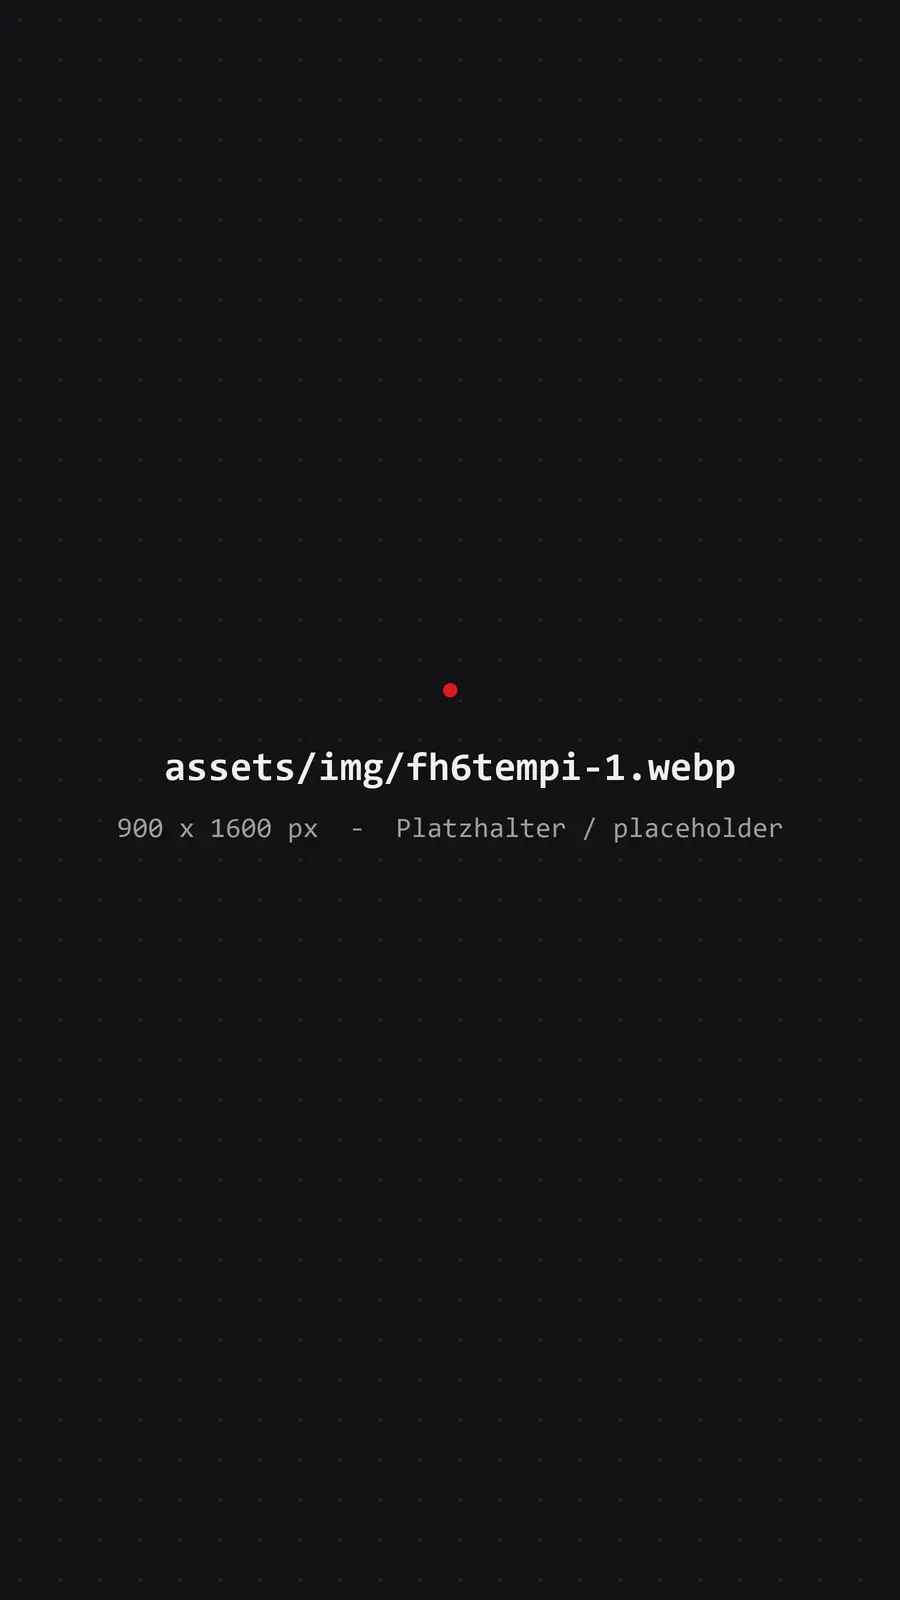
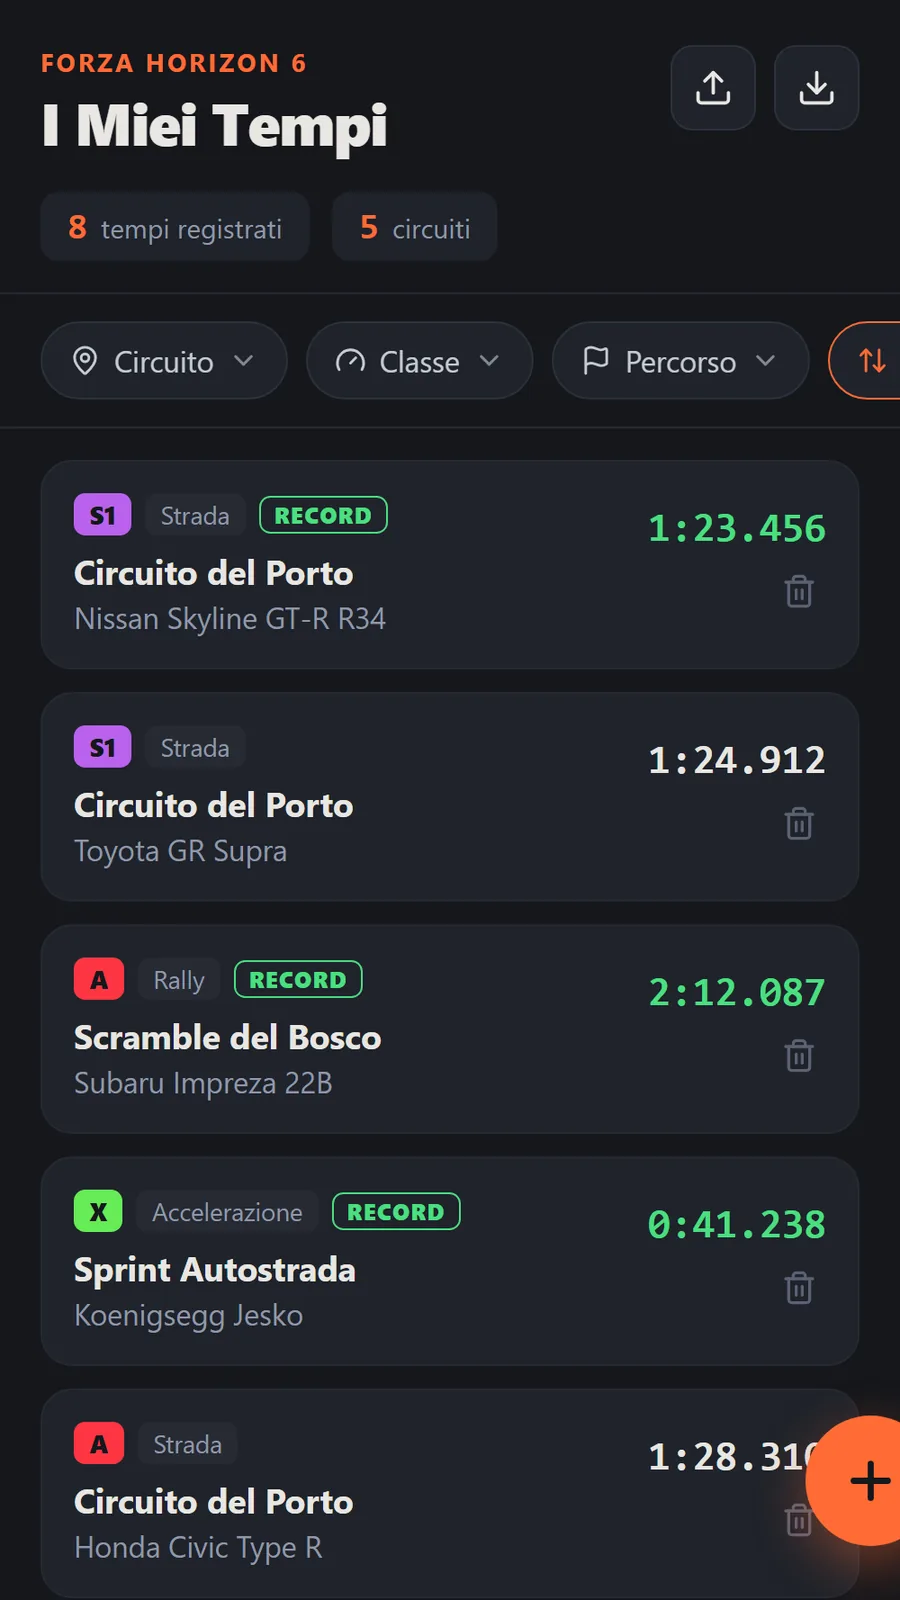
Echte Screenshots und genauere Projekttexte fuer Scriba, Blackouter und FH6 Tempi

diff --git a/index.html b/index.html
@@ -117,10 +117,22 @@
 
         <!-- P/01 Scriba -->
         <article class="project project--lead reveal" aria-labelledby="p-scriba">
-          <figure class="shot shot--tablet">
-            <img src="assets/img/scriba-1.webp" width="1600" height="1000" loading="lazy" decoding="async"
-                 alt="Scriba auf einem Android-Tablet: handschriftliche Notizen mit erkannten Formen und Stift-Werkzeugleiste" data-i18n-alt="altScriba">
-          </figure>
+          <div class="shots">
+            <figure class="shot shot--tablet">
+              <img src="assets/img/scriba-1.webp" width="1600" height="1000" loading="lazy" decoding="async"
+                   alt="Scriba: handschriftliche Physik-Notizen mit Formel, erkannter Ellipse und gefülltem Dreieck, darüber die Werkzeugleiste" data-i18n-alt="altScriba">
+            </figure>
+            <div class="shots-row">
+              <figure class="shot shot--tablet">
+                <img src="assets/img/scriba-2.webp" width="1200" height="750" loading="lazy" decoding="async"
+                     alt="Scriba: importiertes PDF mit handschriftlichen Markierungen und Randnotiz" data-i18n-alt="altScriba2">
+              </figure>
+              <figure class="shot shot--tablet">
+                <img src="assets/img/scriba-3.webp" width="1200" height="750" loading="lazy" decoding="async"
+                     alt="Scriba: mit dem Lasso ausgewähltes Dreieck mit Griffen zum Verschieben, Skalieren und Drehen" data-i18n-alt="altScriba3">
+              </figure>
+            </div>
+          </div>
           <div class="project-body">
             <p class="project-id">P/01 <span data-i18n="p1Kind">Android · Tablet</span></p>
             <h3 id="p-scriba">Scriba</h3>
@@ -134,17 +146,16 @@
               <dt data-i18n="lblSolved">Gelöst</dt>
               <dd>
                 <ul class="solved">
-                  <li data-i18n="p1s1"><strong>Front-Buffer-Rendering</strong> für latenzfreie Stifteingabe, kombiniert mit Motion Prediction.</li>
-                  <li data-i18n="p1s2"><strong>Eigene Formerkennung</strong> für Kreis, Rechteck und Polygon – rein geometrisch.</li>
-                  <li data-i18n="p1s3"><strong>Atomares Speichern</strong> mit .bak-Backup in einem eigenen, versionierten Binärformat.</li>
-                  <li data-i18n="p1s4"><strong>Undo/Redo</strong> über Action-Objekte.</li>
+                  <li data-i18n="p1s1"><strong>Front-Buffer-Rendering</strong> für latenzfreie Stifteingabe: Der Strich wird am normalen Zeichenzyklus vorbei gezeichnet, Motion Prediction ergänzt die nächsten Millisekunden.</li>
+                  <li data-i18n="p1s2"><strong>Eigene Formerkennung:</strong> Stift kurz halten, und aus dem krummen Kreis wird ein sauberer – ebenso Rechteck, Dreieck und Polygon. Rein geometrisch, per Kleinste-Quadrate-Fit.</li>
+                  <li data-i18n="p1s3"><strong>Atomares Speichern</strong> (Temp-Datei, dann Rename) mit .bak-Backup in einem eigenen, versionierten Binärformat.</li>
+                  <li data-i18n="p1s4"><strong>Undo/Redo</strong> für alle Operationen über Action-Objekte.</li>
                   <li data-i18n="p1s5"><strong>100 % offline</strong> – die App fordert nicht einmal die INTERNET-Permission an.</li>
                 </ul>
               </dd>
             </dl>
             <p class="project-links">
-              <!-- TODO: Repo-Link eintragen, sobald das Repository öffentlich ist -->
-              <a href="https://github.com/GiacomoGreco1" target="_blank" rel="noopener"><span data-i18n="linkProfile">Code auf GitHub</span><span class="arr" aria-hidden="true">↗</span></a>
+              <span class="private" data-i18n="linkPrivate">Privates Repository – den Code zeige ich gern im Gespräch.</span>
             </p>
           </div>
         </article>
@@ -153,7 +164,7 @@
         <article class="project project--flip reveal" aria-labelledby="p-blackouter">
           <figure class="shot shot--phone">
             <img src="assets/img/blackouter-1.webp" width="900" height="1600" loading="lazy" decoding="async"
-                 alt="Blackouter: Sleep-Timer mit großen roten Dot-Matrix-Ziffern auf schwarzem Hintergrund" data-i18n-alt="altBlackouter">
+                 alt="Blackouter: Timer auf 30 Minuten mit Dot-Matrix-Ziffern, Schnellwahltasten, Ziffernblock und roter Start-Taste" data-i18n-alt="altBlackouter">
           </figure>
           <div class="project-body">
             <p class="project-id">P/02 <span data-i18n="p2Kind">Android · Sleep-Timer</span></p>
@@ -168,15 +179,14 @@
               <dt data-i18n="lblSolved">Gelöst</dt>
               <dd>
                 <ul class="solved">
-                  <li data-i18n="p2s1"><strong>Neustart statt Flickwerk:</strong> Der erste Versuch mit React Native scheiterte im Hintergrund. Umstieg auf AlarmManager (<code>setExactAndAllowWhileIdle</code>) und Device Admin (<code>lockNow</code>).</li>
+                  <li data-i18n="p2s1"><strong>Neustart statt Flickwerk:</strong> Der erste Versuch mit React Native scheiterte im Hintergrund. Umstieg auf AlarmManager (<code>setExactAndAllowWhileIdle</code>) und Device Admin (<code>lockNow</code>) – läuft jetzt auch bei geschlossener App.</li>
                   <li data-i18n="p2s2"><strong>Audio-Focus</strong> anfordern, um fremde Apps sauber zu pausieren.</li>
                   <li data-i18n="p2s3"><strong>Dot-Matrix-Ziffern</strong> per CustomPainter im Nothing-Design – dieselben Punkte wie oben im Namen.</li>
                 </ul>
               </dd>
             </dl>
             <p class="project-links">
-              <!-- TODO: Repo-Link eintragen -->
-              <a href="https://github.com/GiacomoGreco1" target="_blank" rel="noopener"><span data-i18n="linkProfile">Code auf GitHub</span><span class="arr" aria-hidden="true">↗</span></a>
+              <span class="private" data-i18n="linkPrivate">Privates Repository – den Code zeige ich gern im Gespräch.</span>
             </p>
           </div>
         </article>
@@ -185,7 +195,7 @@
         <article class="project reveal" aria-labelledby="p-fh6">
           <figure class="shot shot--phone">
             <img src="assets/img/fh6tempi-1.webp" width="900" height="1600" loading="lazy" decoding="async"
-                 alt="FH6 Tempi: Liste von Rundenzeiten mit Filtern und markierten persönlichen Rekorden" data-i18n-alt="altFh6">
+                 alt="FH6 Tempi: Liste von Rundenzeiten mit Fahrzeugklasse, Streckentyp und grün markierten Rekorden" data-i18n-alt="altFh6">
           </figure>
           <div class="project-body">
             <p class="project-id">P/03 <span data-i18n="p3Kind">Android · Offline</span></p>
@@ -201,14 +211,13 @@
               <dd>
                 <ul class="solved">
                   <li data-i18n="p3s1"><strong>APK aus der Cloud:</strong> GitHub Actions baut die App – ohne lokales Android-Setup.</li>
-                  <li data-i18n="p3s2"><strong>Filter, Sortierung und persönliche Rekorde</strong> vollständig offline auf dem Gerät.</li>
+                  <li data-i18n="p3s2"><strong>Filter, Sortierung und persönliche Rekorde</strong> pro Strecke, grün markiert – vollständig offline auf dem Gerät.</li>
                   <li data-i18n="p3s3"><strong>JSON-Import/Export</strong> für Backup und Gerätewechsel.</li>
                 </ul>
               </dd>
             </dl>
             <p class="project-links">
-              <!-- TODO: Repo-Link eintragen -->
-              <a href="https://github.com/GiacomoGreco1" target="_blank" rel="noopener"><span data-i18n="linkProfile">Code auf GitHub</span><span class="arr" aria-hidden="true">↗</span></a>
+              <span class="private" data-i18n="linkPrivate">Privates Repository – den Code zeige ich gern im Gespräch.</span>
             </p>
           </div>
         </article>

diff --git a/assets/js/main.js b/assets/js/main.js
@@ -122,33 +122,35 @@
     leadProjects: 'Three Android apps and two devices. All designed, built and finished by me – including the parts where the first approach did not work.',
     lblProblem: 'Problem',
     lblSolved: 'Solved',
-    linkProfile: 'Code on GitHub',
+    linkPrivate: 'Private repository – happy to walk you through the code in an interview.',
     hwHead: 'Hardware',
 
-    altScriba: 'Scriba on an Android tablet: handwritten notes with recognised shapes and the pen toolbar',
+    altScriba: 'Scriba: handwritten physics notes with a formula, a recognised ellipse and a filled triangle, with the toolbar above',
+    altScriba2: 'Scriba: imported PDF with handwritten markings and a margin note',
+    altScriba3: 'Scriba: triangle selected with the lasso, with handles to move, scale and rotate',
     p1Kind: 'Android · Tablet',
     p1What: 'Android tablet app for handwritten notes and PDF annotation.',
     p1Problem: 'Writing with a stylus and annotating PDFs – as direct as paper, with no account and no cloud. Every millisecond of lag between pen tip and line gets in the way.',
-    p1s1: '<strong>Front-buffer rendering</strong> for latency-free pen input, combined with motion prediction.',
-    p1s2: '<strong>Custom shape recognition</strong> for circles, rectangles and polygons – purely geometric.',
-    p1s3: '<strong>Atomic saving</strong> with a .bak backup in my own versioned binary format.',
-    p1s4: '<strong>Undo/redo</strong> built on action objects.',
+    p1s1: '<strong>Front-buffer rendering</strong> for latency-free pen input: the stroke bypasses the normal draw cycle, and motion prediction fills in the next few milliseconds.',
+    p1s2: '<strong>Custom shape recognition:</strong> hold the pen still and a wobbly circle snaps to a clean one – same for rectangles, triangles and polygons. Purely geometric, using a least-squares fit.',
+    p1s3: '<strong>Atomic saving</strong> (temp file, then rename) with a .bak backup in my own versioned binary format.',
+    p1s4: '<strong>Undo/redo</strong> for every operation, built on action objects.',
     p1s5: '<strong>100% offline</strong> – the app does not even request the INTERNET permission.',
 
-    altBlackouter: 'Blackouter: sleep timer with large red dot-matrix digits on a black background',
+    altBlackouter: 'Blackouter: timer set to 30 minutes with dot-matrix digits, quick-select buttons, keypad and a red start button',
     p2Kind: 'Android · Sleep timer',
     p2What: 'Sleep timer that pauses media (Twitch, YouTube, Spotify), returns to the home screen and locks the display.',
     p2Problem: 'Fall asleep while streaming and the screen and battery run all night. The timer has to fire reliably – even after Android has long pushed the app into the background.',
-    p2s1: '<strong>Restart instead of patching:</strong> the first attempt in React Native failed in the background. I switched to AlarmManager (<code>setExactAndAllowWhileIdle</code>) and Device Admin (<code>lockNow</code>).',
+    p2s1: '<strong>Restart instead of patching:</strong> the first attempt in React Native failed in the background. I switched to AlarmManager (<code>setExactAndAllowWhileIdle</code>) and Device Admin (<code>lockNow</code>) – it now works even with the app closed.',
     p2s2: '<strong>Audio focus</strong> requests to cleanly pause other apps.',
     p2s3: '<strong>Dot-matrix digits</strong> drawn with CustomPainter in the Nothing design language – the same dots as in my name above.',
 
-    altFh6: 'FH6 Tempi: list of lap times with filters and highlighted personal records',
+    altFh6: 'FH6 Tempi: list of lap times with car class, track type and records highlighted in green',
     p3Kind: 'Android · Offline',
     p3What: 'Offline app for lap times in Forza Horizon 6.',
     p3Problem: 'Recording and comparing my own lap times across many tracks and cars – on the phone next to the controller, with no server and no sign-up.',
     p3s1: '<strong>APK from the cloud:</strong> GitHub Actions builds the app – no local Android setup needed.',
-    p3s2: '<strong>Filters, sorting and personal records</strong>, fully offline on the device.',
+    p3s2: '<strong>Filters, sorting and personal records</strong> per track, highlighted in green – fully offline on the device.',
     p3s3: '<strong>JSON import/export</strong> for backups and moving between devices.',
 
     altAmpel: 'MTC-Ampel: ESP32 board with red and green LEDs and a buzzer inside its enclosure',

diff --git a/assets/css/style.css b/assets/css/style.css
@@ -375,6 +375,9 @@ strong { font-weight: 600; color: var(--ink); }
   transition: transform .9s var(--ease);
 }
 .shot--tablet { aspect-ratio: 16 / 10; }
+.shots { display: grid; gap: 12px; }
+.shots-row { display: grid; grid-template-columns: 1fr 1fr; gap: 12px; }
+.private { font: 400 .78rem/1.5 var(--mono); letter-spacing: .02em; color: var(--mute); }
 .shot--photo  { aspect-ratio: 4 / 3; }
 .shot--phone  { aspect-ratio: 9 / 16; width: min(100%, 300px); }
 
@@ -472,7 +475,7 @@ strong { font-weight: 600; color: var(--ink); }
 .project-links a:hover .arr, .contact-links a:hover .arr { transform: translate(3px, -3px); }
 
 @media (hover: hover) {
-  .project:hover > .shot { transform: translateY(-8px); }
+  .project:hover > .shot, .project:hover > .shots { transform: translateY(-8px); }
   .project:hover > .project-body { transform: translateY(-3px); }
   .project:hover .shot img { transform: scale(1.045); }
   .project:hover .tags li::after { opacity: 1; }
@@ -484,10 +487,10 @@ strong { font-weight: 600; color: var(--ink); }
 
 @media (min-width: 900px) {
   .project { grid-template-columns: repeat(12, minmax(0, 1fr)); column-gap: 32px; align-items: start; }
-  .project > .shot { grid-row: 1; }
+  .project > .shot, .project > .shots { grid-row: 1; }
   .project > .project-body { grid-row: 1; }
 
-  .project--lead > .shot { grid-column: 1 / span 7; }
+  .project--lead > .shots { grid-column: 1 / span 7; }
   .project--lead > .project-body { grid-column: 8 / -1; }
 
   /* Blackouter: Text links, Telefon rechts */
